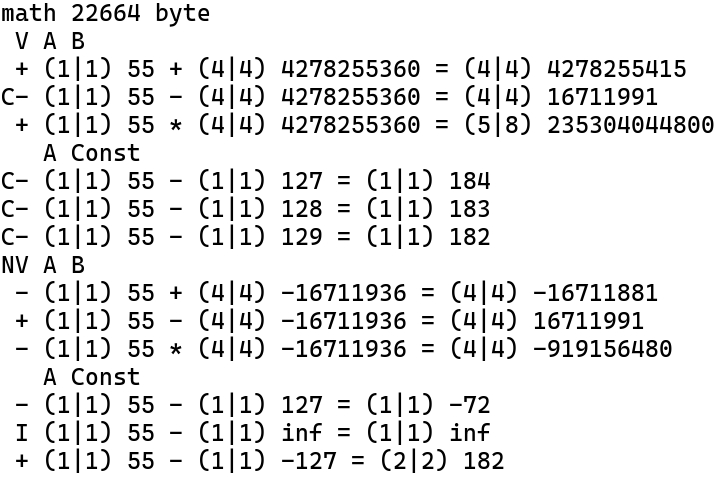
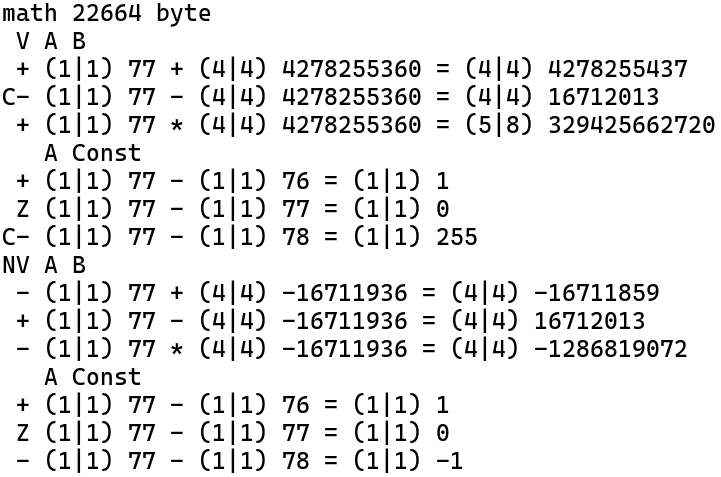
v15.4

diff --git a/math.c b/math.c
@@ -35,58 +35,56 @@ void FADD(an r, an a, anu l, an b) { Mat.N = l; Mat.r = r; Mat.a = a; Mat.b = b;
   Mat.lb = Mat.N; Mat.y = *(Mat.e = Mat.b + Mat.N); Mat.nb = (Mat.Nim && (Mat.y & 128)) ? 255:0;
   while(*Mat.ae-- == Mat.na && Mat.F && (Mat.Nim ? !((*Mat.ae ^ Mat.na) & 128):1)) { Mat.F--; }
   while(*Mat.e-- == Mat.nb && Mat.N && (Mat.Nim ? !((*Mat.b ^ Mat.nb) & 128):1)) { Mat.N--; }
-  Mat.C = (Mat.C != 0); Mat.be = Mat.b; if (Mat.Nim) { Mat.i = Mat.F; Mat.j = Mat.N;
+  Mat.C = (Mat.C != 0); Mat.be = Mat.b; Mat.t = 1; if (Mat.Nim) { Mat.i = Mat.F; Mat.j = Mat.N;
     if ((Mat.x == 128 && Mat.F == Mat.l) || (Mat.y == 128 && Mat.N == Mat.lb)) {
       while(Mat.i && !*Mat.ae--) { Mat.i--; } while(Mat.j && !*Mat.e--) { Mat.j--; }
-      if (!(Mat.i && Mat.j)) { Mat.F = 2; Mat.N = 255; Mat.l = Mat.V ? 0:Mat.l; Mat.i = Mat.l;
-        while(Mat.i--) { *Mat.r++ = 0; } *Mat.r = 128; Mat.C = 0; return; } } }
-  Mat.ae = Mat.r; Mat.N = (Mat.t = (!Mat.V && Mat.N > Mat.l)) ? Mat.l:Mat.N;
-  Mat.j = (Mat.F > Mat.N) ? Mat.N:Mat.F; Mat.i = Mat.j++; Mat.F -= Mat.i; Mat.N -= Mat.i;
-  do { Mat.x = *Mat.a++; Mat.y = (*Mat.ae++ = Mat.x + *Mat.be++ + Mat.C);
-    Mat.C = (Mat.x > Mat.y) || (Mat.C && Mat.y == Mat.x); } while(--Mat.j);
-  if (Mat.N) do { Mat.x = *Mat.be++; Mat.y = (*Mat.ae++ = Mat.na + Mat.x + Mat.C);
-    Mat.C = (Mat.x > Mat.y) || (Mat.C && Mat.y == Mat.x); } while(--Mat.N);
-  else while(Mat.F--) { Mat.x = *Mat.a++; Mat.y = (*Mat.ae++ = Mat.x + Mat.nb + Mat.C);
+      Mat.t -= !(Mat.i && Mat.j); } }
+  if (Mat.t) { Mat.N = (Mat.t = (!Mat.V && Mat.N > Mat.l)) ? Mat.l:Mat.N;
+    Mat.ae = Mat.r; Mat.i = (Mat.F > Mat.N) ? Mat.N:Mat.F; Mat.F -= Mat.i; Mat.N -= Mat.i;
+    do { Mat.x = *Mat.a++; Mat.y = (*Mat.ae++ = Mat.x + *Mat.be++ + Mat.C);
+      Mat.C = (Mat.x > Mat.y) || (Mat.C && Mat.y == Mat.x); } while(Mat.i--);
+    if (Mat.N) do { Mat.x = *Mat.be++; Mat.y = (*Mat.ae++ = Mat.na + Mat.x + Mat.C);
+      Mat.C = (Mat.x > Mat.y) || (Mat.C && Mat.y == Mat.x); } while(--Mat.N);
+    else while(Mat.F--) { Mat.x = *Mat.a++; Mat.y = (*Mat.ae++ = Mat.x + Mat.nb + Mat.C);
       Mat.C = (Mat.x > Mat.y) || (Mat.C && Mat.y == Mat.x); }
-  Mat.x = --Mat.ae - Mat.r; Mat.be = Mat.ae; Mat.i = Mat.x; while(Mat.i-- && !*--Mat.be) { }
-  Mat.F = !(++Mat.i | Mat.y); Mat.N = (Mat.Nim && (Mat.y & 128)) ? 255:0;
-  Mat.i = (!Mat.i && Mat.y == 128); if (Mat.Nim) { 
-    Mat.C = (Mat.na != Mat.N && !(Mat.na ^ Mat.nb)) || Mat.i;
-    if (Mat.C && Mat.x != 255 && (Mat.V || (!Mat.V && Mat.x < Mat.l))) { Mat.F = 0; Mat.x++;
-      Mat.C--; Mat.N = Mat.i ? Mat.N:~Mat.N; *++Mat.ae = Mat.N; }
-    if ((Mat.t | Mat.C)) { Mat.F = 2; Mat.N = 255; Mat.C = 0; Mat.l = Mat.V ? 0:Mat.l;
-      Mat.i = Mat.l; while(Mat.i--) { *Mat.r++ = 0; } *Mat.r = 128; return; } }
-  if (!Mat.V && Mat.l > Mat.x) { Mat.i = Mat.l - Mat.x; do *++Mat.ae = Mat.N; while(--Mat.i);
-    Mat.x = Mat.l; } Mat.C |= Mat.t; Mat.l = Mat.x; }
+    Mat.x = --Mat.ae - Mat.r; Mat.be = Mat.ae; Mat.i = Mat.x; while(Mat.i-- && !*--Mat.be) { }
+    Mat.F = !(++Mat.i | Mat.y); Mat.N = (Mat.Nim && (Mat.y & 128)) ? 255:0;
+    Mat.i = (!Mat.i && Mat.y == 128); if (Mat.Nim) { 
+      Mat.C = (Mat.na != Mat.N && !(Mat.na ^ Mat.nb)) || Mat.i;
+      if (Mat.C && Mat.x != 255 && (Mat.V || (!Mat.V && Mat.x < Mat.l))) { Mat.F = 0; Mat.x++;
+        Mat.C--; Mat.N = Mat.i ? Mat.N:~Mat.N; *++Mat.ae = Mat.N; } Mat.t = Mat.C ? 2:Mat.t; }
+    if (Mat.t < 2) { if (!Mat.V && Mat.l > Mat.x) { Mat.i = Mat.l - Mat.x;
+        do *++Mat.ae = Mat.N; while(--Mat.i); Mat.x = Mat.l; } Mat.C |= Mat.t; Mat.l = Mat.x;
+      return; } } Mat.F = 2; Mat.N = 255; Mat.l = Mat.V ? 0:Mat.l; Mat.C = 0; Mat.i = Mat.l;
+  while(Mat.i--) { *Mat.r++ = 0; } *Mat.r = 128; }
 
 void FSUB(an r, an a, anu l, an b) { Mat.N = l; Mat.r = r; Mat.a = a; Mat.b = b;
   Mat.F = Mat.l; Mat.x = *(Mat.ae = Mat.a + Mat.l); Mat.na = (Mat.Nim && (Mat.x & 128)) ? 255:0;
   Mat.lb = Mat.N; Mat.y = *(Mat.e = Mat.b + Mat.N); Mat.nb = (Mat.Nim && (Mat.y & 128)) ? 255:0;
   while(*Mat.ae-- == Mat.na && Mat.F && (Mat.Nim ? !((*Mat.ae ^ Mat.na) & 128):1)) { Mat.F--; }
   while(*Mat.e-- == Mat.nb && Mat.N && (Mat.Nim ? !((*Mat.b ^ Mat.nb) & 128):1)) { Mat.N--; }
-  Mat.C = (Mat.C != 0); Mat.be = Mat.b; if (Mat.Nim) { Mat.i = Mat.F; Mat.j = Mat.N;
+  Mat.C = (Mat.C != 0); Mat.be = Mat.b; Mat.t = 1; if (Mat.Nim) { Mat.i = Mat.F; Mat.j = Mat.N;
     if ((Mat.x == 128 && Mat.F == Mat.l) || (Mat.y == 128 && Mat.N == Mat.lb)) {
       while(Mat.i && !*Mat.ae--) { Mat.i--; } while(Mat.j && !*Mat.e--) { Mat.j--; }
-      if (!(Mat.i && Mat.j)) { Mat.F = 2; Mat.N = 255; Mat.l = Mat.V ? 0:Mat.l; Mat.i = Mat.l;
-        while(Mat.i--) { *Mat.r++ = 0; } *Mat.r = 128; Mat.C = 0; return; } } }
-  Mat.ae = Mat.r; Mat.N = (Mat.t = (!Mat.V && Mat.N > Mat.l)) ? Mat.l:Mat.N;
-  Mat.j = (Mat.F > Mat.N) ? Mat.N:Mat.F; Mat.i = Mat.j++; Mat.F -= Mat.i; Mat.N -= Mat.i;
-  do { Mat.x = *Mat.a++; Mat.y = (*Mat.ae++ = Mat.x - *Mat.be++ - Mat.C);
-    Mat.C = (Mat.x < Mat.y) || (Mat.C && Mat.y == Mat.x); } while(--Mat.j);
-  if (Mat.N) do { Mat.y = (*Mat.ae++ = Mat.na - *Mat.be++ - Mat.C);
-    Mat.C = (Mat.na < Mat.y) || (Mat.C && Mat.y == Mat.na); } while(--Mat.N);
-  else while(Mat.F--) { Mat.x = *Mat.a++; Mat.y = (*Mat.ae++ = Mat.x - Mat.nb - Mat.C);
+      Mat.t -= !(Mat.i && Mat.j); } }
+  if (Mat.t) { Mat.N = (Mat.t = (!Mat.V && Mat.N > Mat.l)) ? Mat.l:Mat.N;
+    Mat.ae = Mat.r; Mat.i = (Mat.F > Mat.N) ? Mat.N:Mat.F; Mat.F -= Mat.i; Mat.N -= Mat.i;
+    do { Mat.x = *Mat.a++; Mat.y = (*Mat.ae++ = Mat.x - *Mat.be++ - Mat.C);
+      Mat.C = (Mat.x < Mat.y) || (Mat.C && Mat.y == Mat.x); } while(Mat.i--);
+    if (Mat.N) do { Mat.y = (*Mat.ae++ = Mat.na - *Mat.be++ - Mat.C);
+      Mat.C = (Mat.na < Mat.y) || (Mat.C && Mat.y == Mat.na); } while(--Mat.N);
+    else while(Mat.F--) { Mat.x = *Mat.a++; Mat.y = (*Mat.ae++ = Mat.x - Mat.nb - Mat.C);
       Mat.C = (Mat.x < Mat.y) || (Mat.C && Mat.y == Mat.x); }
-  Mat.x = --Mat.ae - Mat.r; Mat.be = Mat.ae; Mat.i = Mat.x; while(Mat.i-- && !*--Mat.be) { }
-  Mat.F = !(++Mat.i | Mat.y); Mat.N = (Mat.Nim && (Mat.y & 128)) ? 255:0;
-  Mat.i = (!Mat.i && Mat.y == 128); if (Mat.Nim) {
-    Mat.C = ((Mat.na ^ Mat.nb) && (Mat.na ^ Mat.N)) || Mat.i;
-    if (Mat.C && Mat.x != 255 && (Mat.V || (!Mat.V && Mat.x < Mat.l))) { Mat.F = 0; Mat.x++;
-      Mat.C--; Mat.N = Mat.i ? Mat.N:~Mat.N; *++Mat.ae = Mat.N; }
-    if ((Mat.t | Mat.C)) { Mat.F = 2; Mat.N = 255; Mat.C = 0; Mat.l = Mat.V ? 0:Mat.l;
-      Mat.i = Mat.l; while(Mat.i--) { *Mat.r++ = 0; } *Mat.r = 128; return; } }
-  if (!Mat.V && Mat.l > Mat.x) { Mat.i = Mat.l - Mat.x; do *++Mat.ae = Mat.N; while(--Mat.i);
-    Mat.x = Mat.l; } Mat.N = Mat.Nim ? Mat.N:Mat.C; Mat.C |= Mat.t; Mat.l = Mat.x; }
+    Mat.x = --Mat.ae - Mat.r; Mat.be = Mat.ae; Mat.i = Mat.x; while(Mat.i-- && !*--Mat.be) { }
+    Mat.F = !(++Mat.i | Mat.y); Mat.N = (Mat.Nim && (Mat.y & 128)) ? 255:0;
+    Mat.i = (!Mat.i && Mat.y == 128); if (Mat.Nim) {
+      Mat.C = ((Mat.na ^ Mat.nb) && (Mat.na ^ Mat.N)) || Mat.i;
+      if (Mat.C && Mat.x != 255 && (Mat.V || (!Mat.V && Mat.x < Mat.l))) { Mat.F = 0; Mat.x++;
+        Mat.C--; Mat.N = Mat.i ? Mat.N:~Mat.N; *++Mat.ae = Mat.N; } Mat.t = Mat.C ? 2:Mat.t; }
+    if (Mat.t < 2) { if (!Mat.V && Mat.l > Mat.x) { Mat.i = Mat.l - Mat.x;
+        do *++Mat.ae = Mat.N; while(--Mat.i); Mat.x = Mat.l; } Mat.N = Mat.Nim ? Mat.N:Mat.C;
+    Mat.C |= Mat.t; Mat.l = Mat.x; return; } } Mat.F = 2; Mat.N = 255; Mat.l = Mat.V ? 0:Mat.l;
+  Mat.C = 0; Mat.i = Mat.l; while(Mat.i--) { *Mat.r++ = 0; } *Mat.r = 128; }
 
 void FMUL(an r, an a, anu l, an b) { Mat.N = l; Mat.r = r; Mat.a = a; Mat.b = b;
   Mat.F = Mat.l; Mat.x = *(Mat.ae = Mat.a + Mat.l); Mat.na = (Mat.Nim && (Mat.x & 128)) ? 255:0;

diff --git a/main.c b/main.c
@@ -20,7 +20,7 @@ void Num(anu s, an a) { anu ns, t[m]; if (s > 8) { printf(" %d|? ", s + 1); retu
     else if (ns) printf("%u ", *(uint16_t*)a); else printf("%u ", *(uint8_t*)a); } }
 void Show(char s) { Flong(la,lb); Mat.C = 0;
   if (s == '+') FAdd(); else if (s == '-') FSub(); else if (s == '*') FMul(); else if (s == '/') FDiv();
-  else { FSubc(127); } printf("%c%c ", Mat.C ? 'C':' ', Mat.F ? (Mat.N ? 'I':'Z') : (Mat.N ? '-':'+'));
+  else { FSubc(76); } printf("%c%c ", Mat.C ? 'C':' ', Mat.F ? (Mat.N ? 'I':'Z') : (Mat.N ? '-':'+'));
   Num(la, Mat.A); if (s == 'c') printf("- "); else { printf("%c ", s); } Num(Mat.lb, Mat.b); printf("= "); Num(Mat.l, Mat.R);
   if (s == '/') { printf("  %c ", Mat.Fe ? (Mat.Ne ? 'I':'Z') : (Mat.Ne ? '-':'+')); Num(Mat.le, Mat.E); } printf("\n"); }
 void Const(void) { an sb; anu l, i = 2; printf("   A Const\n"); Show('c'); sb = Mat.B;
@@ -28,5 +28,5 @@ void Const(void) { an sb; anu l, i = 2; printf("   A Const\n"); Show('c'); sb = 
 void Test(void) { printf("%c%c A B\n", Mat.Nim ? 'N':' ', Mat.V ? 'V':' '); Show('+'); Show('-'); Show('*'); /*Show('/');*/Const(); }
 
 int main(void) { anu v = 1,a[m],b[m],e[m],r[m+m]; Faddr((As)r, (As)e, (As)a, (As)b);
-  Fini(0,v); la = Fbvi(Mat.A, 55); lb = Fvi(Mat.B, 0,255,0,255); Test();
+  Fini(0,v); la = Fbvi(Mat.A, 77); lb = Fvi(Mat.B, 0,255,0,255); Test();
   Fset(1,v); la = Fmov(la, Mat.A); lb = Fmov(lb, Mat.B); Test(); return 0; }

diff --git a/README.md b/README.md
@@ -17,7 +17,7 @@
 P.s.: Блокировку убрали как только добавил сообщение о ней на главную страницу, длилась минут 20 как я заметил и принял меры чтоб сообщить об этом Вам. Это сообщение останется (20.09.2026 ~16.00 по местному +7) как память, так, что буду стараться вопреки не востребованности в России по данной области дабы остальной народ мог этим воспользоваться. Проанализируйте события с момента как я вернулся в эту сферу (конец января 2026 выложен Products готовый полностью затем занялся Fresh в начале февраля 2026), всё это время обновлялся код и было забавно видеть на open.net новости - даже компании серьёзные их как озарило - так, что у меня нет желания и времени следить за соблюдением GPLv3 из России, если заметите нарушение лицензии, то гарантировано взаимовыгодное сотрудничество.
 
 <div align="center">
-  <h1>Результат запуска v15.2</h1>
+  <h1>Результат запуска v15.4</h1>
   
   <picture>
     <source media="(prefers-color-scheme: dark)" srcset="Plus/psb.jpeg">
